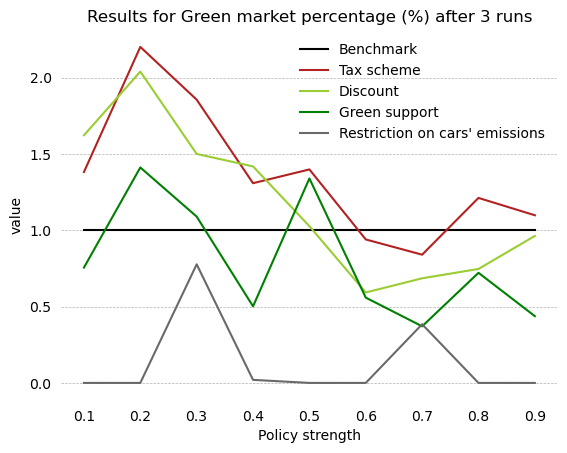
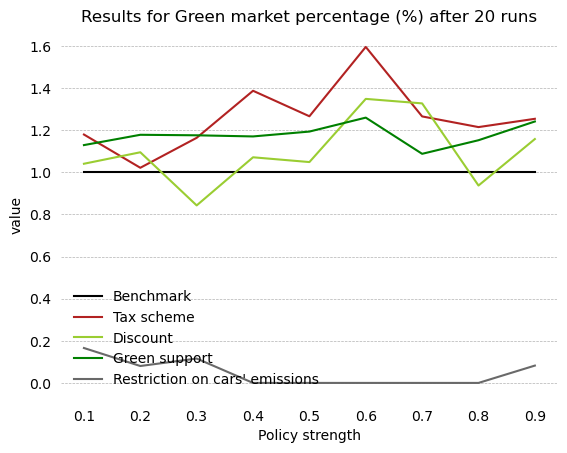
figures for latest changes 20 runs each level all policies 24 hours!

diff --git a/generalization.py b/generalization.py
@@ -27,7 +27,6 @@ seed = False
 def processing_averages(pol_results):
     # Receives a specific policy dictionary of results of runs and processes the averages
     averages = dict()
-    # cols = ['green_market_share', 'new_firms_share', 'emissions_index', 'public_cumulative']
     cols = ['green_market_share', 'new_firms_share', 'emissions_index']
     for col in cols:
         averages[col] = pd.DataFrame()
@@ -120,7 +119,7 @@ def policies(n=10):
 
 def benchmark(n=10):
     pol, level = None, None
-    p = {'policy': pol, 'level': level}
+    p = {'policy': None, 'level': None}
     # For each run policy, when dictionary with all runs is saved.
     # Thus, result collected is a dictionary of dictionaries containing DataFrames
     results = {pol: dict()}
@@ -132,8 +131,8 @@ def benchmark(n=10):
 
 if __name__ == '__main__':
     t0 = time.time()
-    m = 1
+    m = 20
     benchmark(m)
-    # r, l, m = policies(m)
-    # plot_policies(r, l, m)
+    r, l, m = policies(m)
+    plot_policies(r, l, m)
     print(f'This run took {time.time() - t0:.2f} seconds!')
